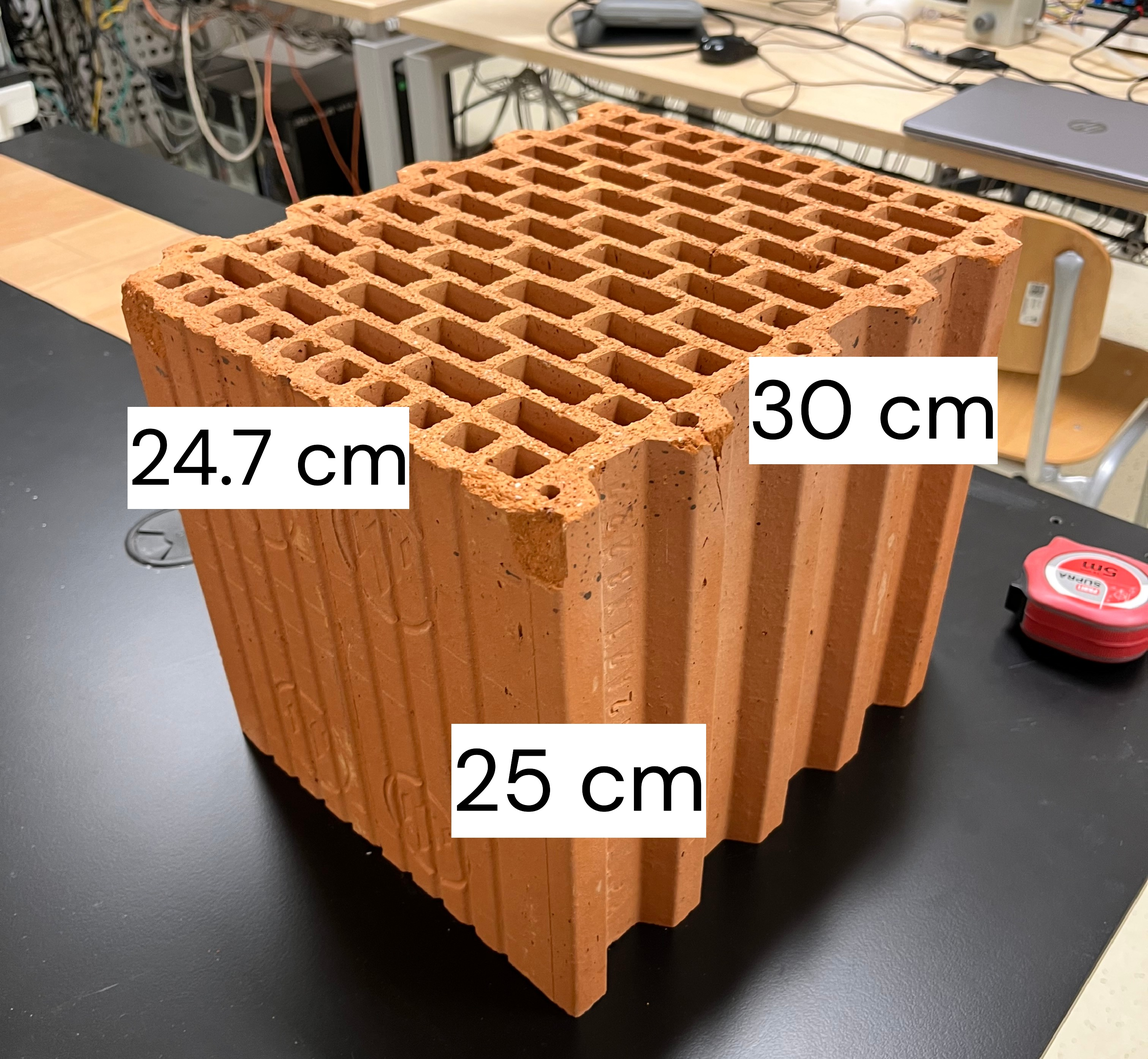
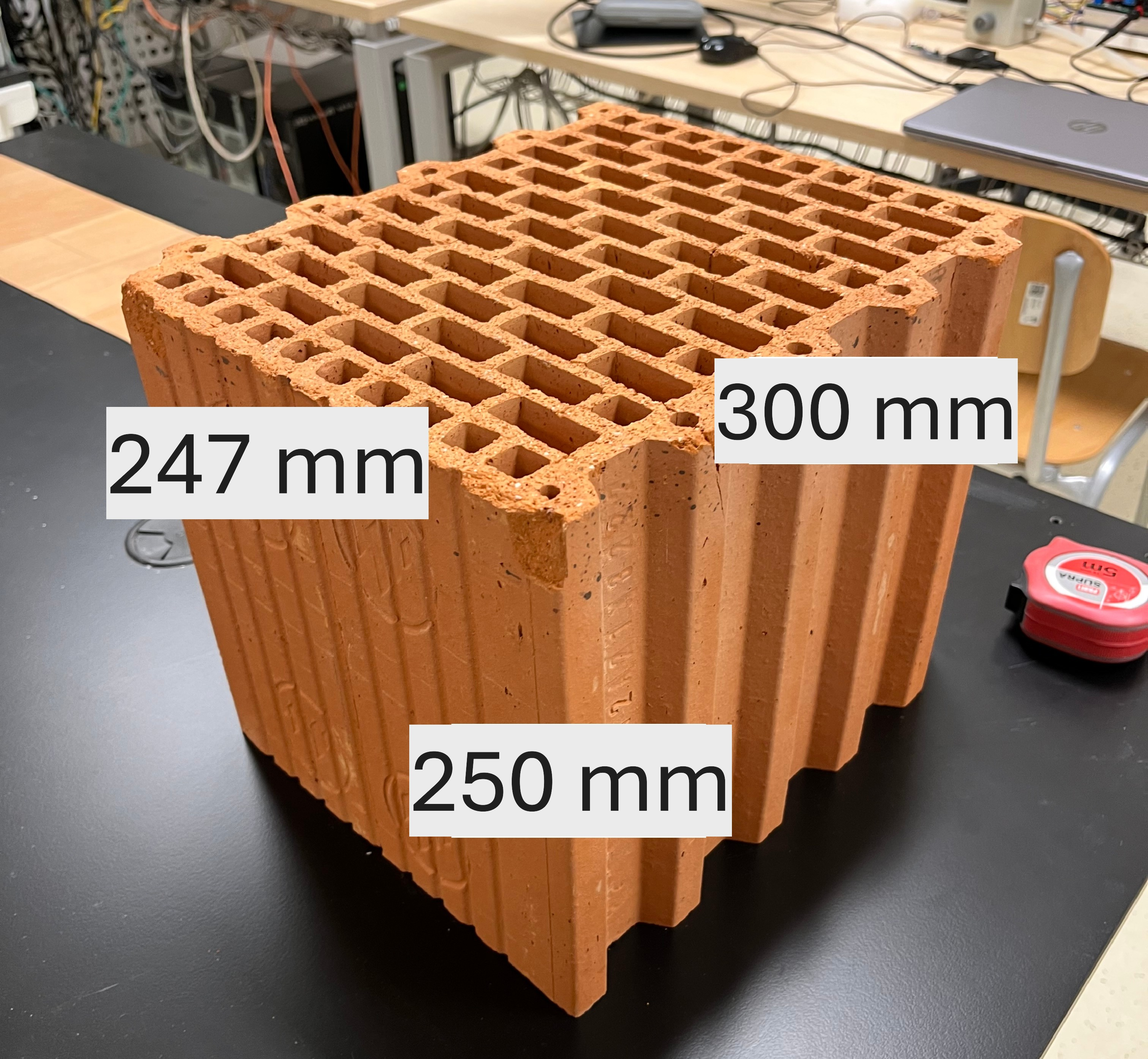
Modified info

Changed region(s): [[0.3419, 0.686, 0.6528, 0.8108], [0.0933, 0.3742, 0.373, 0.4989], [0.6217, 0.3118, 0.9015, 0.4366]]

diff --git a/README.md b/README.md
@@ -3,13 +3,20 @@
 ## pallet physical properties
 
 <div style="display: flex; justify-content: space-between; align-items: center;">
-    <div style="text-align: center;">
-        <img src="images/brick_WDH.jpg" alt="Pallet Overview" width="400">
+    <div style="text-align: center; margin-right: 20px;">
+        <img src="images/brick_WDH.jpg" alt="Pallet Overview" width="350">
         <p><em>Figure 1: Overview of the brick</em></p>
     </div>
-    <div style="text-align: center;">
-        <img src="images/brick_detail.jpg" alt="Pallet Dimensions" width="400">
+    <div style="text-align: center; margin-left: 20px;">
+        <img src="images/brick_detail.jpg" alt="Pallet Dimensions" width="350">
         <p><em>Figure 2: Detailed dimensions of the brick</em></p>
+    </div>
+</div>
+
+<div style="display: flex; justify-content: space-between; align-items: center; margin-top: 30px;">
+    <div style="text-align: center;">
+        <img src="images/pallet.jpg" alt="Pallet Dimensions" width="350">
+        <p><em>Figure 3: Pallet dimensions</em></p>
     </div>
 </div>
 
